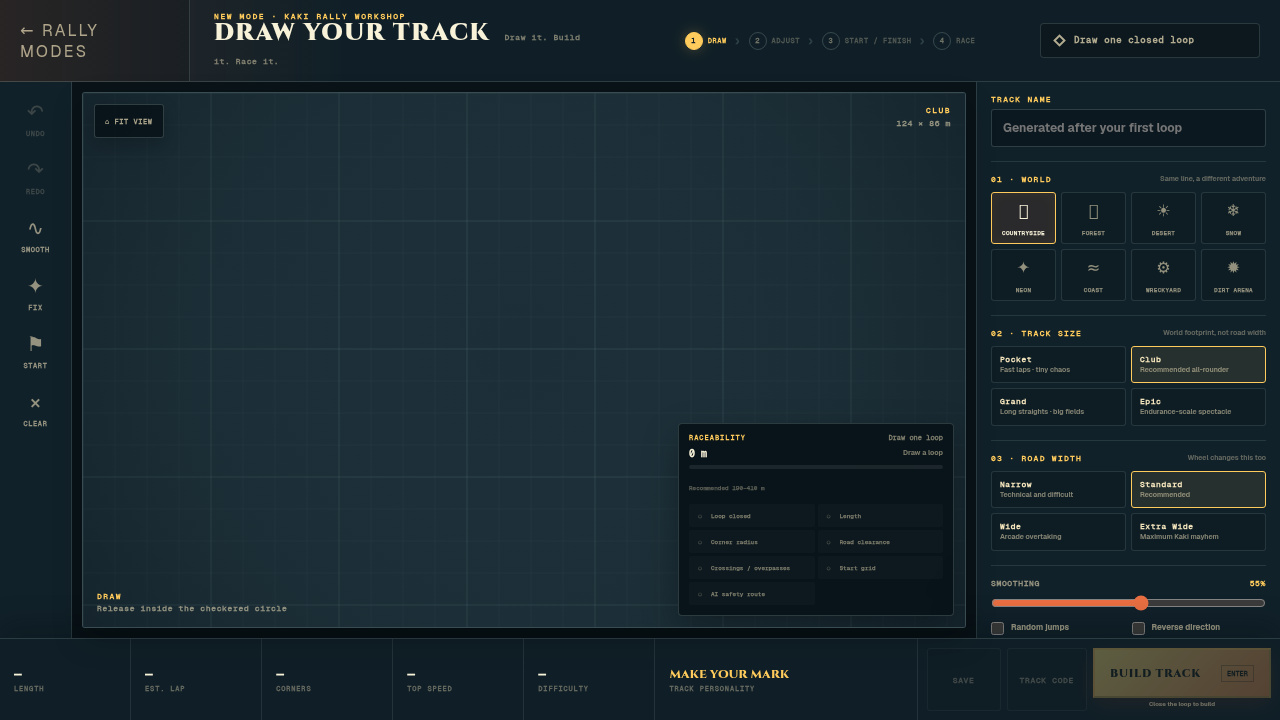
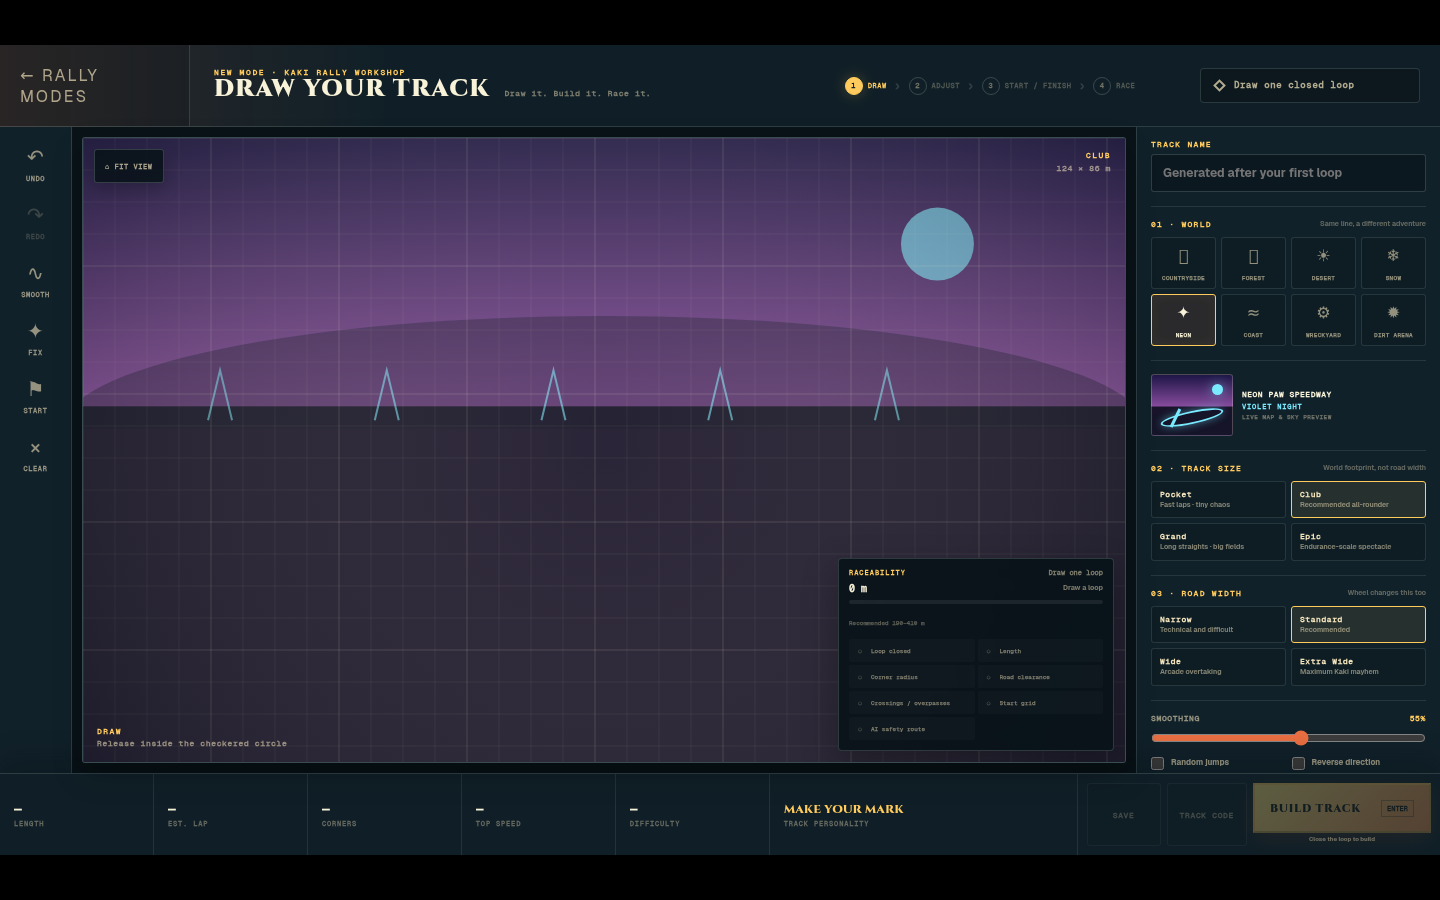
feat: add Trials side view and editor world maps

diff --git a/src/racing/drawTrackUI.js b/src/racing/drawTrackUI.js
@@ -27,7 +27,7 @@ import {
 } from './drawTrackStorage.js';
 
 const STYLE_ID = 'kdt-editor-style';
-const STYLE_URL = new URL('./drawTrack.css?v=20260721draw2', import.meta.url).href;
+const STYLE_URL = new URL('./drawTrack.css?v=20260722worldmap1', import.meta.url).href;
 const WIDTH_ORDER = Object.keys(TRACK_WIDTH_PRESETS);
 
 function clamp(value, min, max) {
@@ -372,6 +372,7 @@ export class DrawTrackUI {
       <aside class="kdt-inspector">
         <label class="kdt-name"><span>TRACK NAME</span><input type="text" maxlength="42" placeholder="Generated after your first loop"></label>
         <section class="kdt-theme-section"><div class="kdt-section-title"><b>01 · WORLD</b><span>Same line, a different adventure</span></div><div class="kdt-themes">${themeOptions}</div></section>
+        <section class="kdt-world-preview" data-role="world-preview" aria-label="Selected world map preview"><div class="kdt-world-preview-art" aria-hidden="true"><i></i><b></b><em></em></div><div><b data-role="world-venue">MEADOW RALLY PARK</b><span data-role="world-sky">HARVEST SKY</span><small>LIVE MAP &amp; SKY PREVIEW</small></div></section>
         <section class="kdt-size-section"><div class="kdt-section-title"><b>02 · TRACK SIZE</b><span>World footprint, not road width</span></div><div class="kdt-size-options">${sizeOptions}</div></section>
         <section class="kdt-width-section"><div class="kdt-section-title"><b>03 · ROAD WIDTH</b><span>Wheel changes this too</span></div><div class="kdt-width-options">${widthOptions}</div></section>
         <section class="kdt-tuning">
@@ -1160,6 +1161,17 @@ export class DrawTrackUI {
     this.root.querySelector('[data-setting="reverse"]').checked = this.draft.reverse;
     this.root.querySelectorAll('[data-modifier]').forEach((input) => { input.checked = !!this.draft.modifiers[input.dataset.modifier]; });
     const size = TRACK_SIZE_PRESETS[this.draft.sizeId];
+    const theme = DRAW_TRACK_THEMES[this.draft.themeId] || DRAW_TRACK_THEMES.countryside;
+    const worldPreview = this.root.querySelector('[data-role="world-preview"]');
+    if (worldPreview) {
+      worldPreview.dataset.mapKind = theme.mapKind || 'hills';
+      worldPreview.style.setProperty('--kdt-map-sky-top', theme.skyTop || '#78b9d0');
+      worldPreview.style.setProperty('--kdt-map-sky-horizon', theme.skyHorizon || '#f4c27b');
+      worldPreview.style.setProperty('--kdt-map-ground', theme.mapGround || '#667c4c');
+      worldPreview.style.setProperty('--kdt-map-accent', theme.mapAccent || '#ffe0a3');
+      worldPreview.querySelector('[data-role="world-venue"]').textContent = theme.venue || theme.name;
+      worldPreview.querySelector('[data-role="world-sky"]').textContent = theme.skyName || 'RALLY SKY';
+    }
     this.root.querySelector('[data-role="scale-name"]').textContent = size.label.toUpperCase();
     const layout = this.draft.layoutTransform;
     this.root.querySelector('[data-role="scale-size"]').textContent = this.closed
@@ -1641,21 +1653,57 @@ export class DrawTrackUI {
   }
 
   _drawGrid(ctx, width, height) {
-    ctx.fillStyle = '#182933';
+    const theme = DRAW_TRACK_THEMES[this.draft.themeId] || DRAW_TRACK_THEMES.countryside;
+    const horizon = height * 0.43;
+    const sky = ctx.createLinearGradient(0, 0, 0, horizon);
+    sky.addColorStop(0, theme.skyTop || '#78b9d0');
+    sky.addColorStop(1, theme.skyHorizon || '#f4c27b');
+    ctx.fillStyle = sky;
     ctx.fillRect(0, 0, width, height);
+    ctx.fillStyle = theme.mapGround || '#667c4c';
+    ctx.fillRect(0, horizon, width, height - horizon);
+    this._drawWorldMap(ctx, width, height, horizon, theme);
     ctx.lineWidth = 1;
     for (let x = 0; x <= width; x += 32) {
       ctx.beginPath(); ctx.moveTo(x, 0); ctx.lineTo(x, height);
-      ctx.strokeStyle = x % 128 === 0 ? 'rgba(159,199,196,.14)' : 'rgba(159,199,196,.055)'; ctx.stroke();
+      ctx.strokeStyle = x % 128 === 0 ? 'rgba(255,248,218,.16)' : 'rgba(255,248,218,.065)'; ctx.stroke();
     }
     for (let y = 0; y <= height; y += 32) {
       ctx.beginPath(); ctx.moveTo(0, y); ctx.lineTo(width, y);
-      ctx.strokeStyle = y % 128 === 0 ? 'rgba(159,199,196,.14)' : 'rgba(159,199,196,.055)'; ctx.stroke();
+      ctx.strokeStyle = y % 128 === 0 ? 'rgba(255,248,218,.16)' : 'rgba(255,248,218,.065)'; ctx.stroke();
     }
     const gradient = ctx.createRadialGradient(width * 0.5, height * 0.48, 20, width * 0.5, height * 0.48, Math.max(width, height) * 0.7);
-    gradient.addColorStop(0, 'rgba(75,111,114,.08)');
-    gradient.addColorStop(1, 'rgba(3,10,14,.36)');
+    gradient.addColorStop(0, 'rgba(255,245,202,.08)');
+    gradient.addColorStop(1, 'rgba(3,10,14,.32)');
     ctx.fillStyle = gradient; ctx.fillRect(0, 0, width, height);
+  }
+
+  _drawWorldMap(ctx, width, height, horizon, theme) {
+    const accent = theme.mapAccent || '#ffe0a3';
+    const kind = theme.mapKind || 'hills';
+    ctx.save();
+    if (kind === 'coast') {
+      ctx.fillStyle = 'rgba(228,255,255,.58)'; ctx.fillRect(0, horizon + 10, width, height * .16);
+      ctx.strokeStyle = 'rgba(255,255,255,.6)'; ctx.lineWidth = 2;
+      for (let x = -20; x < width + 20; x += 36) { ctx.beginPath(); ctx.arc(x, horizon + 26, 19, Math.PI, Math.PI * 2); ctx.stroke(); }
+    } else if (kind === 'stadium') {
+      ctx.fillStyle = 'rgba(9,14,31,.34)'; ctx.beginPath(); ctx.ellipse(width * .5, horizon + 22, width * .52, height * .18, 0, Math.PI, 0); ctx.fill();
+      ctx.strokeStyle = accent; ctx.globalAlpha = .58; ctx.lineWidth = 2;
+      for (let x = width * .12; x < width * .92; x += width * .16) { ctx.beginPath(); ctx.moveTo(x, horizon + 14); ctx.lineTo(x + 12, horizon - 36); ctx.lineTo(x + 24, horizon + 14); ctx.stroke(); }
+    } else if (kind === 'forest') {
+      ctx.fillStyle = 'rgba(9,38,35,.55)';
+      for (let x = -15; x < width + 20; x += 27) { const tall = 28 + ((x * 13) % 31); ctx.beginPath(); ctx.moveTo(x, horizon + 13); ctx.lineTo(x + 13, horizon - tall); ctx.lineTo(x + 27, horizon + 13); ctx.fill(); }
+    } else if (kind === 'skyline') {
+      ctx.fillStyle = 'rgba(20,27,37,.5)';
+      for (let x = 0; x < width; x += 30) { const tower = 18 + ((x * 7) % 43); ctx.fillRect(x, horizon - tower, 24, tower + 16); }
+    } else {
+      ctx.fillStyle = kind === 'mesa' ? 'rgba(117,61,37,.54)' : 'rgba(35,67,80,.36)';
+      ctx.beginPath(); ctx.moveTo(0, horizon + 18);
+      for (let x = 0; x <= width; x += width / 7) { const peak = kind === 'mountains' ? 42 + (x % 3) * 12 : 20 + (x % 4) * 8; ctx.lineTo(x + width / 14, horizon - peak); }
+      ctx.lineTo(width, horizon + 22); ctx.closePath(); ctx.fill();
+    }
+    ctx.globalAlpha = .66; ctx.fillStyle = accent; ctx.beginPath(); ctx.arc(width * .82, height * .17, Math.max(12, width * .035), 0, Math.PI * 2); ctx.fill();
+    ctx.restore();
   }
 
   _trace(ctx, points, close) {

diff --git a/src/racing/drawTrack.css b/src/racing/drawTrack.css
@@ -324,6 +324,17 @@ body.kdt-open { overscroll-behavior: none; }
 .kdt-themes button:hover,
 .kdt-themes button.is-selected { border-color: var(--kdt-yellow); color: var(--kdt-chalk); background: rgba(232,111,66,.12); box-shadow: inset 0 0 14px rgba(255,203,92,.06); }
 
+.kdt-world-preview { display: grid; grid-template-columns: 82px 1fr; gap: 9px; align-items: stretch; }
+.kdt-world-preview-art { position: relative; min-height: 62px; overflow: hidden; border: 1px solid rgba(255,248,218,.24); border-radius: 3px; background: linear-gradient(var(--kdt-map-sky-top), var(--kdt-map-sky-horizon) 52%, var(--kdt-map-ground) 53%); }
+.kdt-world-preview-art::before { content: ''; position: absolute; right: 9px; top: 9px; width: 11px; height: 11px; border-radius: 50%; background: var(--kdt-map-accent); box-shadow: 0 0 12px color-mix(in srgb, var(--kdt-map-accent), transparent 45%); }
+.kdt-world-preview-art i { position: absolute; inset: 35px -12px -10px; display: block; border-radius: 50% 50% 0 0; background: color-mix(in srgb, var(--kdt-map-ground), #0c1820 28%); }
+.kdt-world-preview-art b { position: absolute; left: 8px; right: 8px; bottom: 11px; height: 13px; border: 2px solid var(--kdt-map-accent); border-radius: 50%; transform: rotate(-12deg); box-shadow: 0 0 9px color-mix(in srgb, var(--kdt-map-accent), transparent 55%); }
+.kdt-world-preview-art em { position: absolute; left: 22px; bottom: 7px; width: 3px; height: 20px; background: var(--kdt-map-accent); transform: rotate(26deg); }
+.kdt-world-preview > div:last-child { display: grid; align-content: center; gap: 4px; min-width: 0; }
+.kdt-world-preview [data-role="world-venue"] { overflow: hidden; color: var(--kdt-chalk); font: 800 8px/1.15 "Geist Mono", monospace; letter-spacing: .06em; text-overflow: ellipsis; white-space: nowrap; }
+.kdt-world-preview [data-role="world-sky"] { color: var(--kdt-map-accent); font: 800 7px/1 "Geist Mono", monospace; letter-spacing: .12em; }
+.kdt-world-preview small { color: rgba(244,229,189,.42); font: 700 6px/1 "Geist Mono", monospace; letter-spacing: .08em; }
+
 .kdt-size-options,
 .kdt-width-options { display: grid; grid-template-columns: 1fr 1fr; gap: 5px; }
 .kdt-size-options button,
@@ -595,8 +606,9 @@ body.kdt-open { overscroll-behavior: none; }
   .kdt-inspector > .kdt-size-section { order: 2; }
   .kdt-inspector > .kdt-width-section { order: 3; }
   .kdt-inspector > .kdt-theme-section { order: 4; }
-  .kdt-inspector > .kdt-tuning { order: 5; }
-  .kdt-inspector > .kdt-library-actions { order: 6; }
+  .kdt-inspector > .kdt-world-preview { order: 5; }
+  .kdt-inspector > .kdt-tuning { order: 6; }
+  .kdt-inspector > .kdt-library-actions { order: 7; }
   .kdt-name { align-content: start; }
   .kdt-inspector > .kdt-theme-section { flex-basis: 371px; }
   .kdt-inspector > .kdt-size-section,

diff --git a/src/racing/cameras/isometricCameraRig.js b/src/racing/cameras/isometricCameraRig.js
@@ -33,12 +33,15 @@ export class IsometricCameraRig {
     let roll;
 
     if (vehicle.trials) {
-      const depth = vehicle.profileId === 'pocket_pouncer' ? 33 : 36;
-      const height = 7.6 + speedRatio * 1.2 + clamp(air * 0.06, 0, 2.4);
+      // Trials is deliberately a 2.5D side-scroller: keep the lens close to the
+      // rider's height so jumps read against the painted horizon rather than a
+      // top-down track. Chase remains available as an optional camera mode.
+      const depth = vehicle.profileId === 'pocket_pouncer' ? 38 : 41;
+      const height = 2.85 + speedRatio * 0.42 + clamp(air * 0.12, 0, 0.42);
       const lookAhead = clamp((vehicle.velocity.x || 0) * 0.27, -3, 9.5);
       this.focus.set(
         vehicle.position.x + lookAhead + shakeX * 0.35,
-        vehicle.position.y - vehicle.rideHeight * 0.38 + 0.55 + shakeY * 0.28,
+        vehicle.position.y - vehicle.rideHeight * 0.38 + 1.35 + shakeY * 0.28,
         vehicle.position.z,
       );
       this.desiredPosition.set(
@@ -46,7 +49,7 @@ export class IsometricCameraRig {
         vehicle.position.y - vehicle.rideHeight * 0.38 + height + shakeY,
         vehicle.position.z + depth + shakeZ,
       );
-      frustum = 12.4 + speedRatio * 2 + clamp(air * 0.12, 0, 4.2) - fx.punch * 0.7;
+      frustum = 10.8 + speedRatio * 1.25 + clamp(air * 0.18, 0, 1.2) - fx.punch * 0.55;
       damping = vehicle.grounded ? 10.8 : 6.6;
       roll = reducedMotion ? 0 : fx.roll + clamp((vehicle.pitchVelocity || 0) * 0.0022, -0.018, 0.018);
     } else {

diff --git a/src/racing/drawTrackThemes.js b/src/racing/drawTrackThemes.js
@@ -6,41 +6,49 @@ export const DRAW_TRACK_THEMES = Object.freeze({
   countryside: Object.freeze({
     id: 'countryside', name: 'Kaki Countryside', short: 'COUNTRYSIDE', courseId: 'forest',
     icon: '🌾', road: 0x67513e, shoulder: 0x4b5f36, ground: 0x6f8a4d, curb: 0xffe2a4, accent: 0xffa85e,
+    venue: 'MEADOW RALLY PARK', skyName: 'HARVEST SKY', mapKind: 'hills', skyTop: '#78b9d0', skyHorizon: '#f4c27b', mapGround: '#667c4c', mapAccent: '#ffe0a3',
     detail: 'Fern banks, hay bales, timber signs and golden rally light.',
   }),
   forest: Object.freeze({
     id: 'forest', name: 'Forest Rally', short: 'FOREST', courseId: 'twilight',
     icon: '🌲', road: 0x3e4645, shoulder: 0x294438, ground: 0x355b45, curb: 0xd8f2bd, accent: 0x79e8b2,
+    venue: 'MOSSBELL STADIUM', skyName: 'LANTERN TWILIGHT', mapKind: 'forest', skyTop: '#1f3445', skyHorizon: '#83986e', mapGround: '#23493d', mapAccent: '#b7edaf',
     detail: 'Deep trees, wet stone, lantern gates and mossy barriers.',
   }),
   desert: Object.freeze({
     id: 'desert', name: 'Desert Dust', short: 'DESERT', courseId: 'cinder',
     icon: '☀', road: 0x594537, shoulder: 0x9a5f38, ground: 0xb67643, curb: 0xffd07a, accent: 0xff7a3d,
+    venue: 'SUNPAW DUST BOWL', skyName: 'COPPER SUNSET', mapKind: 'mesa', skyTop: '#d79e61', skyHorizon: '#efc47d', mapGround: '#b77443', mapAccent: '#ffe09a',
     detail: 'Sun-baked dirt, sandstone markers and enormous dust plumes.',
   }),
   snow: Object.freeze({
     id: 'snow', name: 'Snowy Mountain', short: 'SNOW', courseId: 'cave',
     icon: '❄', road: 0x4c5561, shoulder: 0x9cabb7, ground: 0xcbd8df, curb: 0xf7fbff, accent: 0x77dfff,
+    venue: 'FROSTBITE BOWL', skyName: 'POLAR DAWN', mapKind: 'mountains', skyTop: '#6ea7c9', skyHorizon: '#ddecf2', mapGround: '#b9ced5', mapAccent: '#ffffff',
     detail: 'Icy shoulders, quarry cliffs, snow flags and cold blue light.',
   }),
   neon: Object.freeze({
     id: 'neon', name: 'Neon Night', short: 'NEON', courseId: 'void',
     icon: '✦', road: 0x242234, shoulder: 0x30244c, ground: 0x18132b, curb: 0x7aeaff, accent: 0xff66c7,
+    venue: 'NEON PAW SPEEDWAY', skyName: 'VIOLET NIGHT', mapKind: 'stadium', skyTop: '#1e1647', skyHorizon: '#864b9d', mapGround: '#18132b', mapAccent: '#7aeaff',
     detail: 'Glowing rails, synth-night haze and ultraviolet grandstands.',
   }),
   coastal: Object.freeze({
     id: 'coastal', name: 'Coastal Run', short: 'COAST', courseId: 'kakiland',
     icon: '≈', road: 0xd1b889, shoulder: 0x79a868, ground: 0x7dc2a3, curb: 0xffffff, accent: 0x35cfe0,
+    venue: 'SEAGLASS BOARDWALK', skyName: 'OCEAN BREEZE', mapKind: 'coast', skyTop: '#79c8df', skyHorizon: '#c9efd7', mapGround: '#68ad95', mapAccent: '#e8ffff',
     detail: 'Bright boardwalk colors, sea-glass signs and breezy overlooks.',
   }),
   industrial: Object.freeze({
     id: 'industrial', name: 'Industrial Wreckyard', short: 'WRECKYARD', courseId: 'cave',
     icon: '⚙', road: 0x35383d, shoulder: 0x544b43, ground: 0x62594e, curb: 0xffc857, accent: 0xff6d45,
+    venue: 'MOONPAW WRECKYARD', skyName: 'FLOODLIGHT SHIFT', mapKind: 'skyline', skyTop: '#273548', skyHorizon: '#9c7359', mapGround: '#55514b', mapAccent: '#ffc857',
     detail: 'Containers, work lights, concrete walls and scrapyard clutter.',
   }),
   dirt: Object.freeze({
     id: 'dirt', name: 'Monster Smash Dirt Arena', short: 'DIRT ARENA', courseId: 'cinder',
     icon: '✹', road: 0x6a4931, shoulder: 0x8c5a32, ground: 0x754428, curb: 0xffe066, accent: 0xff4f8b,
+    venue: 'CROWN CHAOS COLISEUM', skyName: 'SHOWTIME FLOODLIGHTS', mapKind: 'stadium', skyTop: '#26334a', skyHorizon: '#e27a54', mapGround: '#704228', mapAccent: '#ffe066',
     detail: 'Chunky dirt, tire stacks, launch paint and demolition-show energy.',
   }),
 });

diff --git a/src/racing/cameras/racingCameraManager.js b/src/racing/cameras/racingCameraManager.js
@@ -325,7 +325,9 @@ export class RacingCameraManager {
   _updateHud() {
     if (!this.hudRoot) return;
     this.hudRoot.dataset.cameraMode = this.mode;
-    const label = RACING_CAMERA_LABELS[this.mode] || this.mode;
+    const label = this.trackBinding?.mode === 'trials' && this.mode === RacingCameraMode.ISOMETRIC
+      ? 'SIDE VIEW'
+      : RACING_CAMERA_LABELS[this.mode] || this.mode;
     const strong = this.hudRoot.querySelector('.kkr-camera-cycle strong');
     if (strong) strong.textContent = label;
     const button = this.hudRoot.querySelector('.kkr-camera-cycle');

diff --git a/src/racing/cameras/cameraSessionBinding.js b/src/racing/cameras/cameraSessionBinding.js
@@ -172,7 +172,7 @@ export function attachRacingCameraManager(session, host = {}) {
     : circuitVehicleBinding(session, profile);
   manager.bindTrack(trackBinding(session));
   manager.bindVehicle(vehicle);
-  manager.initialize(session.raceMode === 'crash' ? 'chase' : undefined);
+  manager.initialize(session.raceMode === 'crash' ? 'chase' : session.raceMode === 'trials' ? 'isometric' : undefined);
   session.cameraHost = host;
   session.cameraManager = manager;
   return manager;